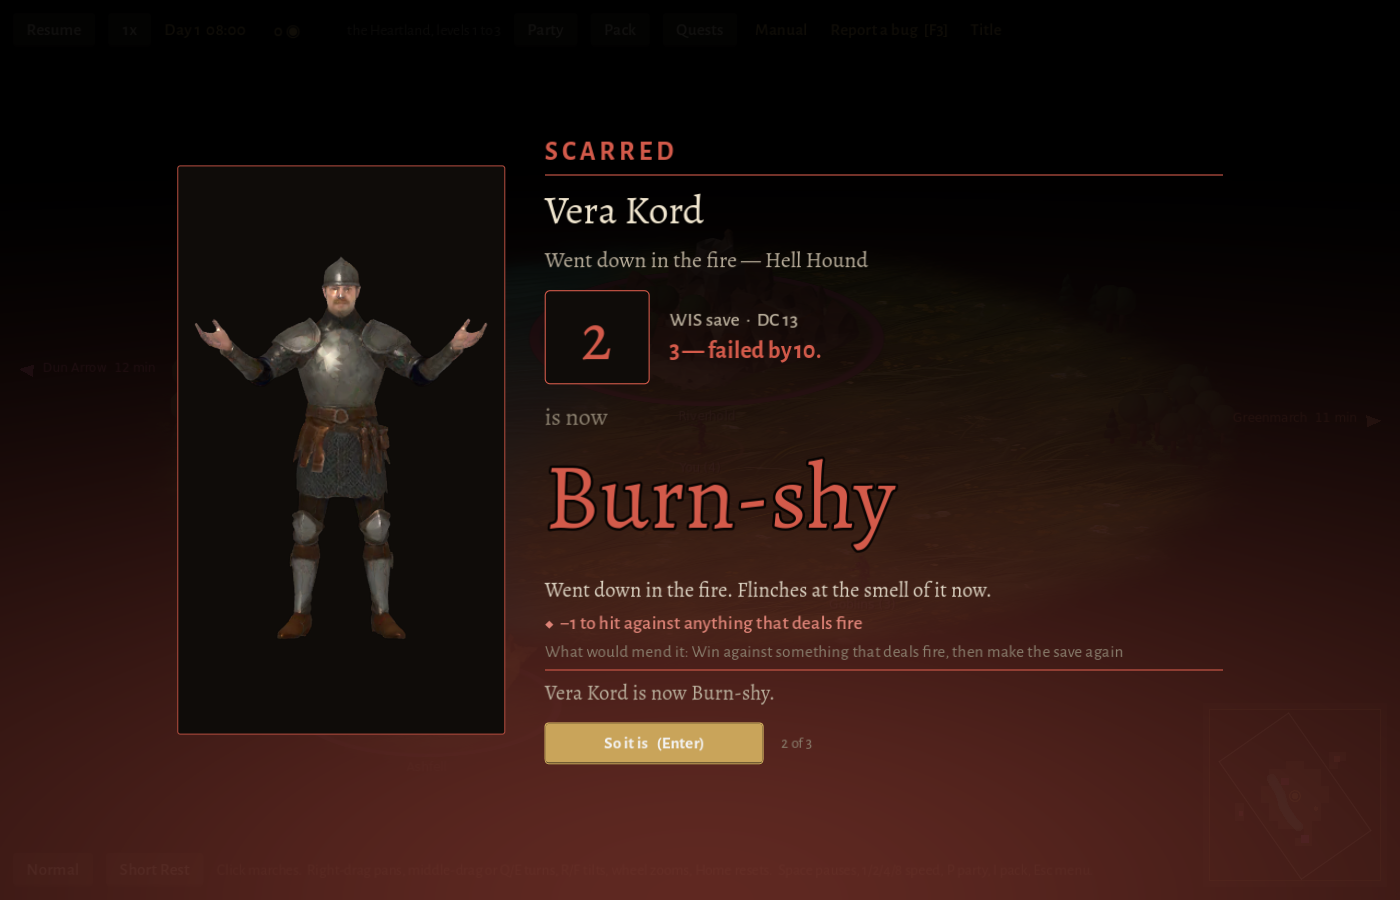
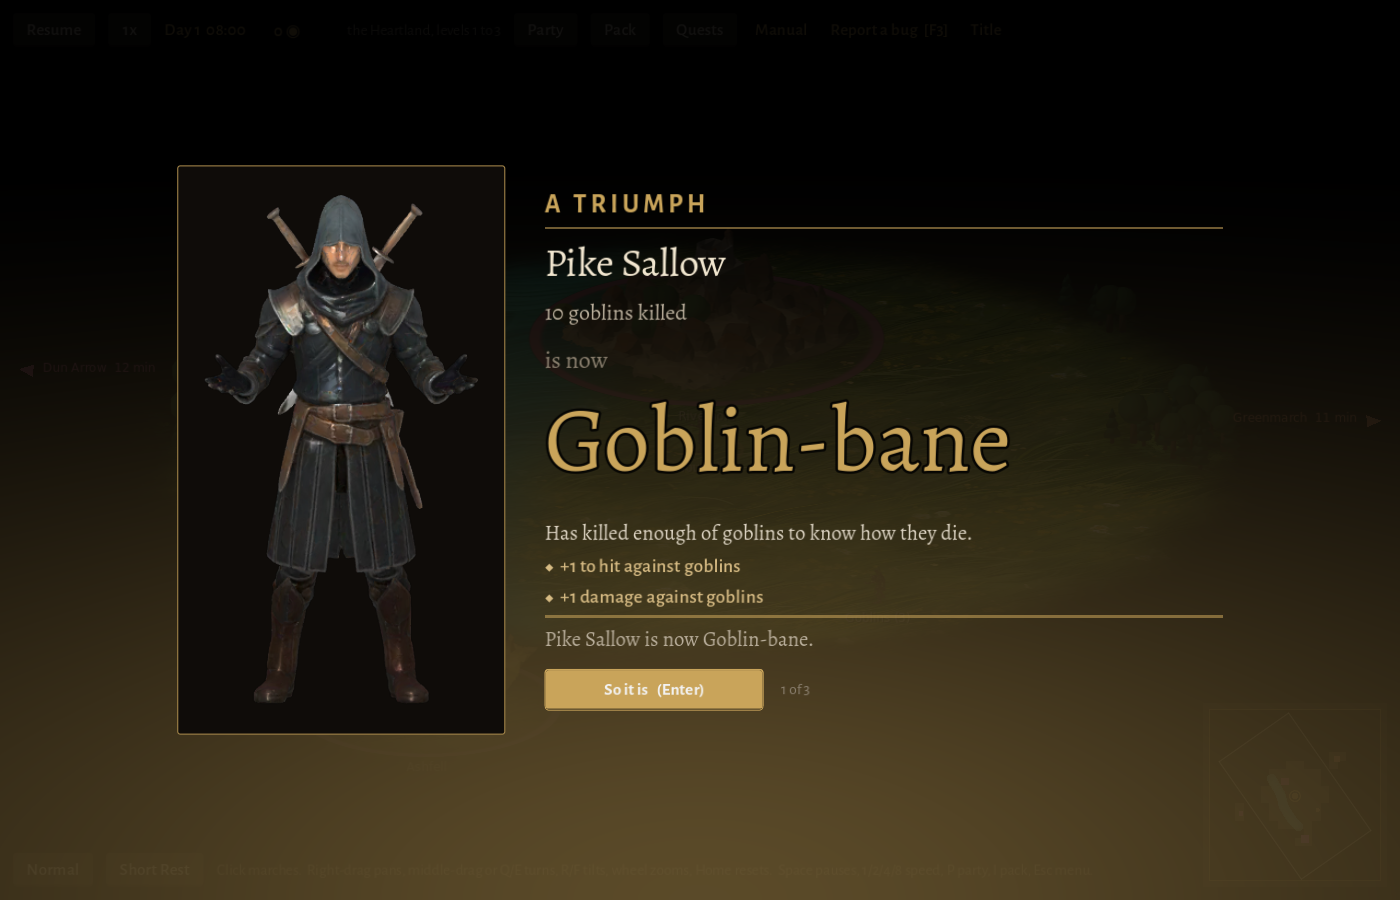
Personality traits, step 3: the words say "goblins", the profile says what mends it
Effect lines name a faction as people do ("against goblins", not
"goblinoid"). The profile's Personality traits panel adds a Mends: line
under a scar or a wound (Traits.mend_text: what cures it, and days left
on a lapsing one). tests/shot_traits_earned.gd plays a real earned
outcome through the world screen for the PR's pictures.

Claude-Session: https://claude.ai/code/session_019eqg1iZ35fYFRmC11R2cGm

Changed region(s): [[0.0614, 0.1556, 0.9521, 1.0], [0.1229, 0.2178, 0.3379, 0.7778]]

diff --git a/docs/expansion-plan.md b/docs/expansion-plan.md
@@ -9120,7 +9120,13 @@ change gets the full-screen moment built earlier
 (`scenes/world/trait_moment.gd`): one hero at a time, the save rolled in front
 of them. Moments queue like a calling's card, wait for the map to be clear and
 for any live die to land, and hold the clock. A trait that lapses is said on
-the HUD line. A night at an inn says what it mended.
+the HUD line. A night at an inn says what it mended. The profile's Personality
+traits panel adds a "Mends:" line under a scar or a wound — what cures it, and
+for one that lapses, how many days are left (`Traits.mend_text`).
+
+Pictures: `docs/shots/traits-earned-{spoils,bane,scar,profile}.png`, from
+`tests/shot_traits_earned.gd`, which plays a real earned outcome through the
+world screen: the seeded minute is found, not forced.
 
 **Plumbing:**
 - `core/traits.gd` has the earning section (`after_fight`, `after_lair`,
@@ -9139,14 +9145,14 @@ the HUD line. A night at an inn says what it mended.
   the spoils page. The completionist's ledger has the deed as opportunistic.
 
 Tests:
-- `tests/test_traits_earn.gd` (56 checks) covers:
+- `tests/test_traits_earn.gd` (59 checks) covers:
   - the instanced rows
   - the flawless rate (about 40% over 400 minutes)
   - one story per hero
   - every degree landing exactly as its own dice say
   - Brave, Craven and Calm on the save
   - the Wrathful grudge
-  - banes, Veteran, cures, lapses and rest
+  - banes, Veteran, cures, lapses and rest, and the profile's mend line
   - the save round trip
   - Maimed in a fight and the death-save credit
   - determinism
